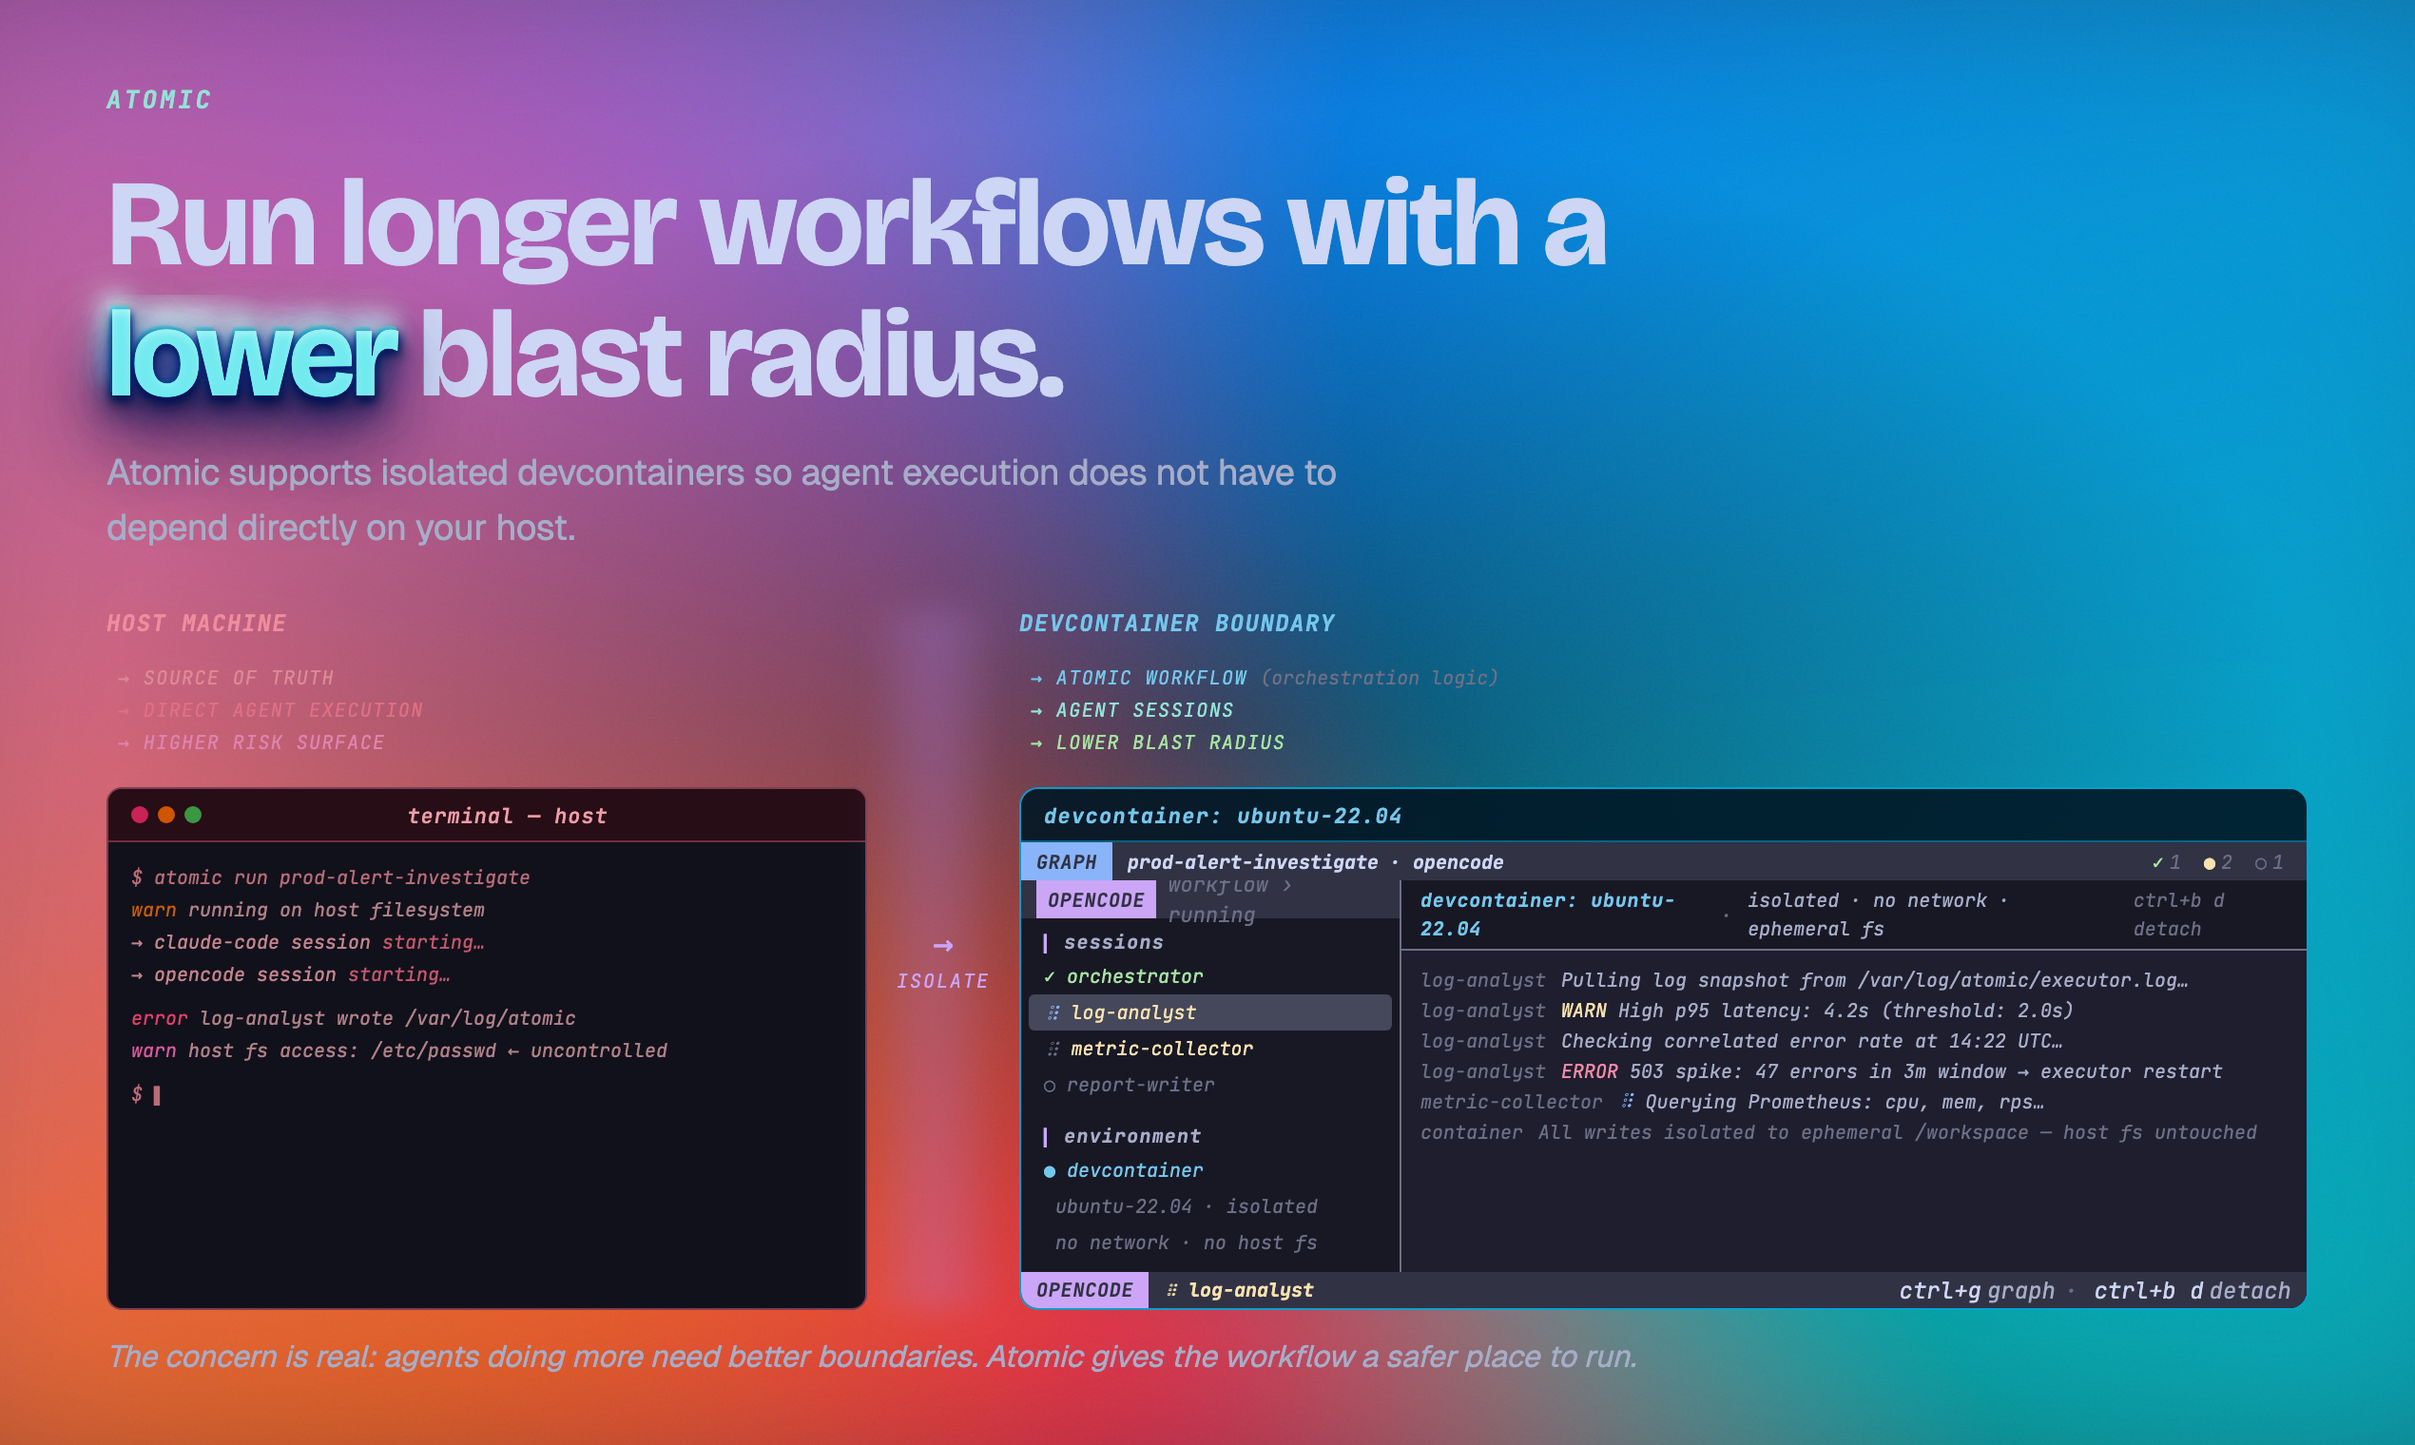
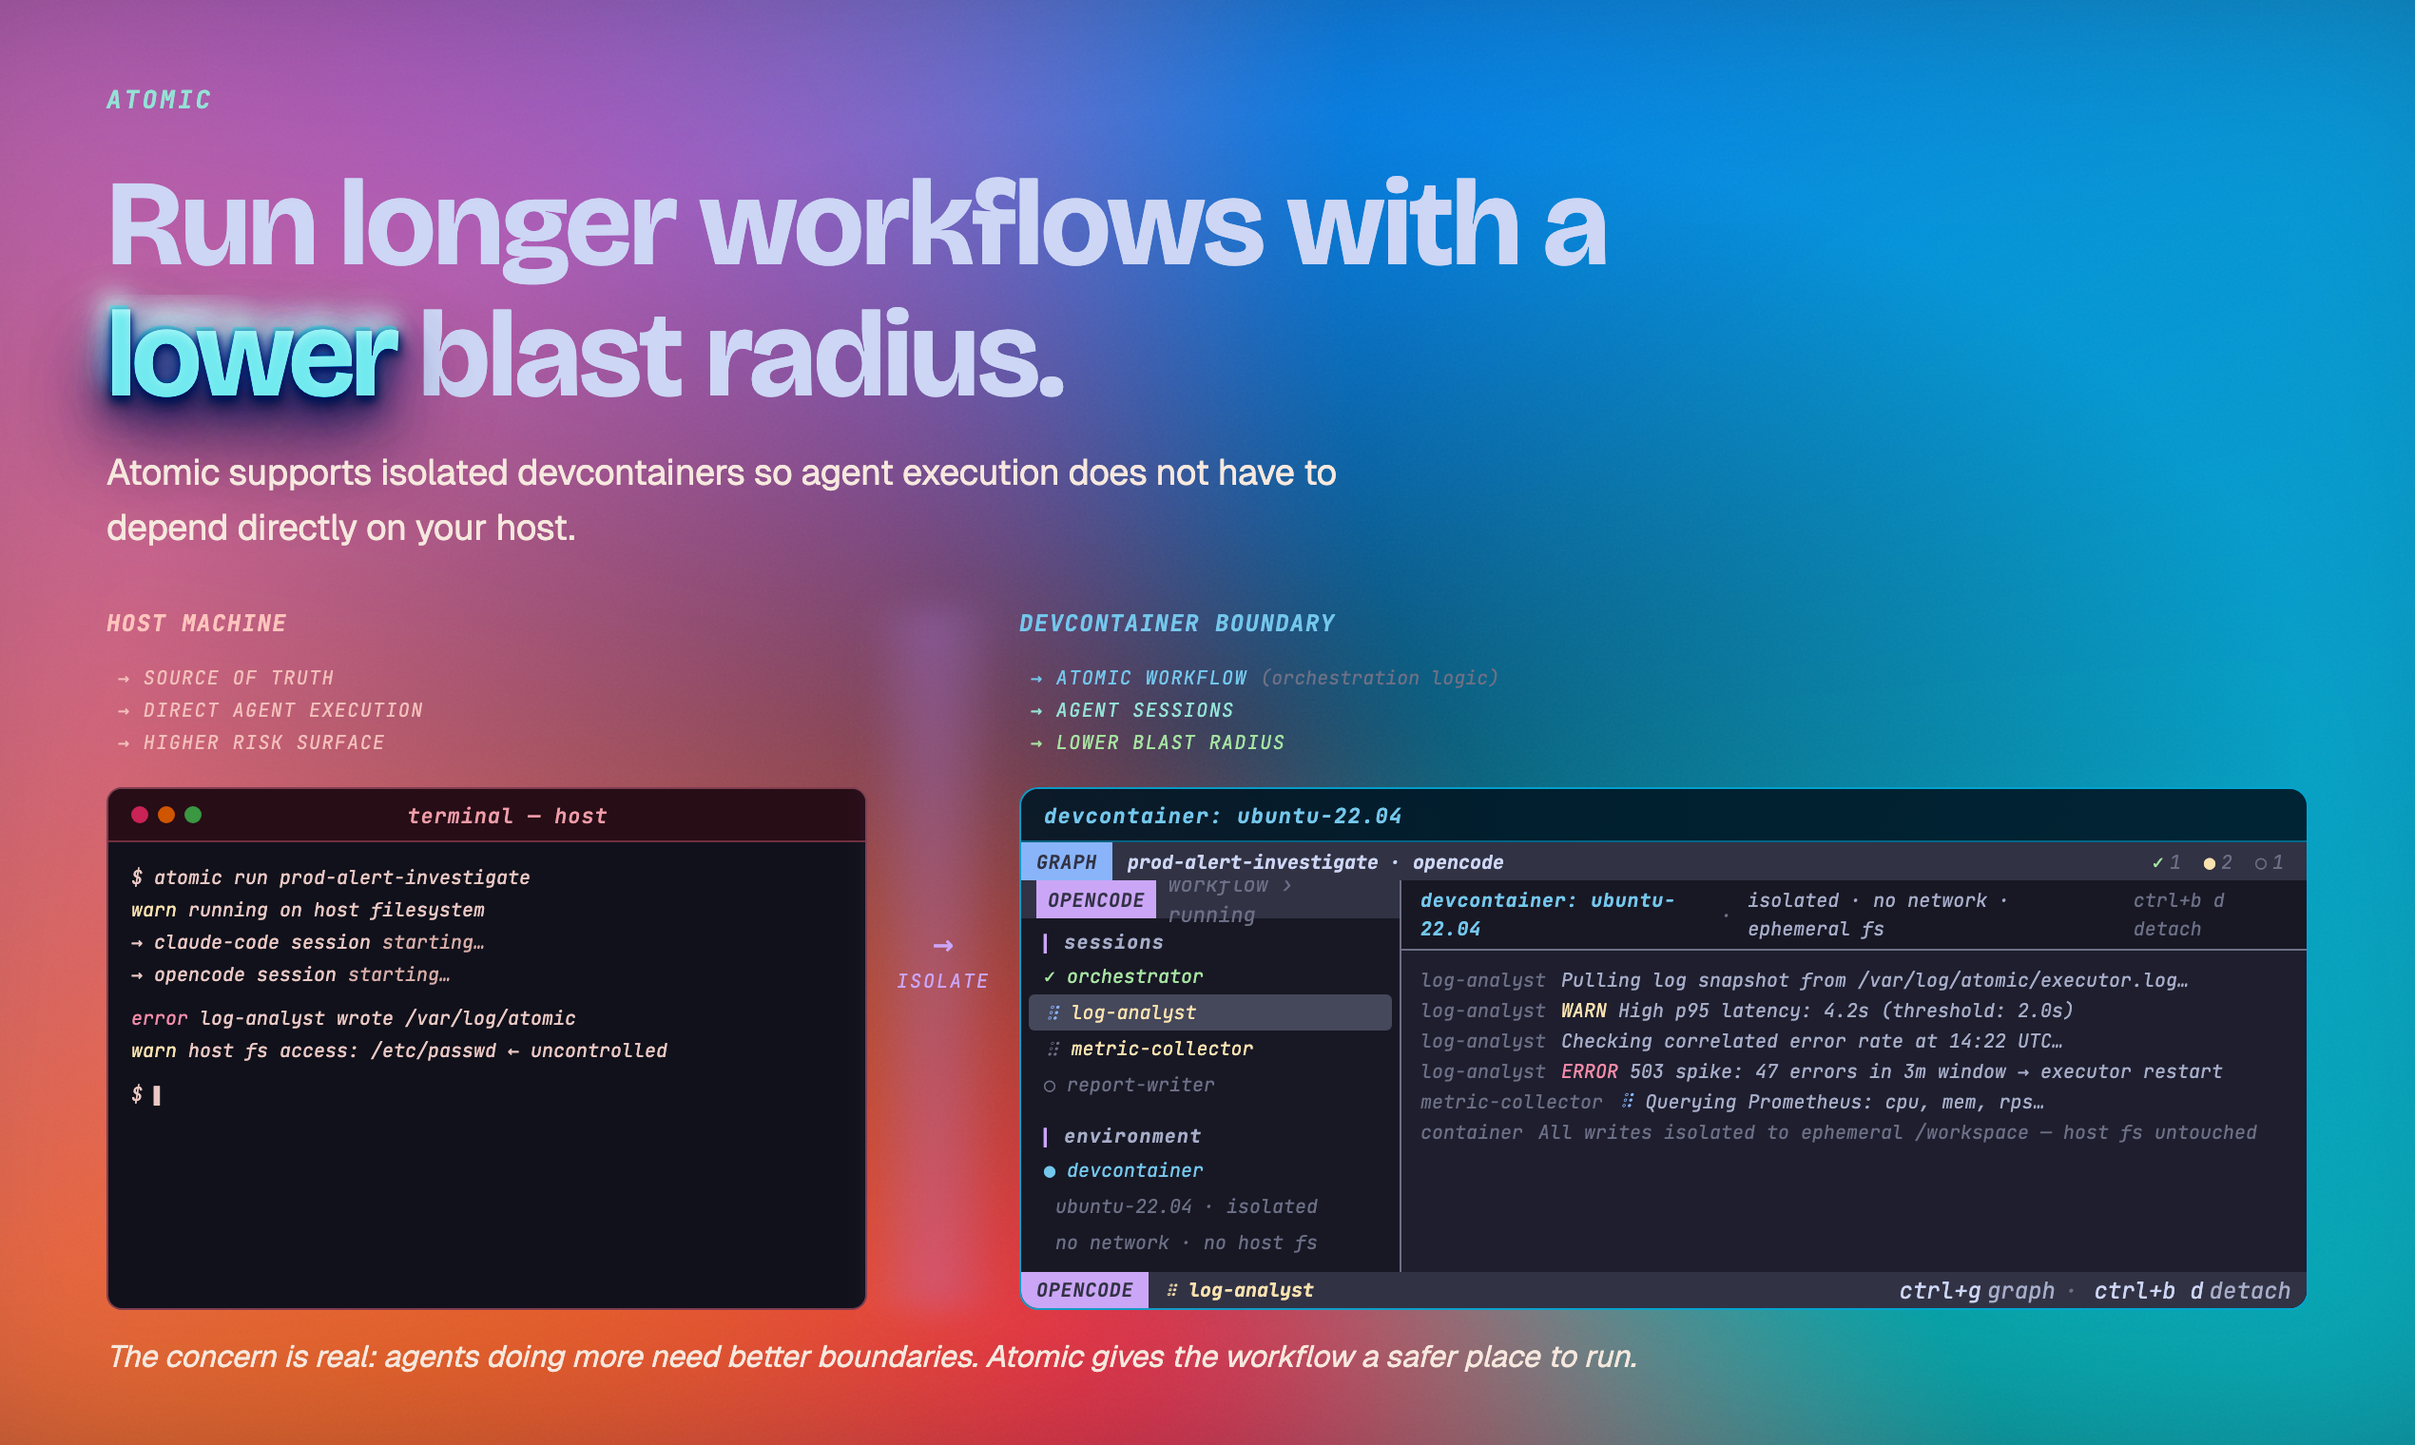
feat(product-hunt): add gradient-safe text tokens and apply across slides
Introduces --text-on-gradient and --text-on-gradient-dim cream-tinted
neutrals tuned for AAA contrast on every conic sweep stop, then swaps
mocha-subtext0/overlay/per-stop oklch colors for the shared token across
slides 01-03 and 05-07. Devcontainer host-pane log lines drop bespoke
warm oklch values in favor of the token plus mocha accent colors for the
warn/error glyphs.

Assistant-model: Claude Code

diff --git a/assets/product-hunt/slides/06-safety-devcontainer.html b/assets/product-hunt/slides/06-safety-devcontainer.html
@@ -277,7 +277,7 @@
       </h1>
 
       <!-- Subhead -->
-      <p class="subhead" style="font-size: 19px; max-width: 680px; margin-bottom: 28px; position: relative; z-index: 2;">
+      <p class="subhead" style="font-size: 19px; max-width: 680px; margin-bottom: 28px; position: relative; z-index: 2; color: var(--text-on-gradient);">
         Atomic supports isolated devcontainers so agent execution does not have to depend directly on your host.
       </p>
 
@@ -310,15 +310,15 @@
               font-weight: 700;
               letter-spacing: 0.06em;
               text-transform: uppercase;
-              color: oklch(75% 0.12 10);
+              color: oklch(88% 0.08 25);
             ">Host machine</span>
           </div>
 
           <!-- Sub-labels -->
           <div style="display: flex; flex-direction: column; gap: 1px; margin-bottom: 6px;">
-            <div class="panel-sublabel" style="color: oklch(72% 0.10 10);">→ source of truth</div>
-            <div class="panel-sublabel" style="color: oklch(68% 0.14 10);">→ direct agent execution</div>
-            <div class="panel-sublabel" style="color: oklch(72% 0.12 350);">→ higher risk surface</div>
+            <div class="panel-sublabel" style="color: oklch(85% 0.06 25);">→ source of truth</div>
+            <div class="panel-sublabel" style="color: oklch(85% 0.06 25);">→ direct agent execution</div>
+            <div class="panel-sublabel" style="color: oklch(85% 0.06 25);">→ higher risk surface</div>
           </div>
 
           <!-- TUI pane mock: Host machine — warm-tinted, simulating direct execution -->
@@ -333,22 +333,22 @@
             </div>
             <div class="host-pane__body">
               <!-- Warm-tinted output lines simulating direct host execution -->
-              <div style="color: oklch(62% 0.10 10); font-size: 10px;">$ atomic run prod-alert-investigate</div>
-              <div style="color: oklch(70% 0.08 10); font-size: 10px; padding-left: 0;">
-                <span style="color: oklch(60% 0.16 50);">warn</span>
-                <span style="color: oklch(65% 0.06 10);"> running on host filesystem</span>
+              <div style="color: oklch(86% 0.04 25); font-size: 10px;">$ atomic run prod-alert-investigate</div>
+              <div style="color: oklch(86% 0.04 25); font-size: 10px; padding-left: 0;">
+                <span style="color: var(--mocha-yellow);">warn</span>
+                <span> running on host filesystem</span>
               </div>
-              <div style="color: oklch(68% 0.08 10); font-size: 10px;">→ claude-code session  <span style="color: oklch(60% 0.14 10);">starting…</span></div>
-              <div style="color: oklch(68% 0.08 10); font-size: 10px;">→ opencode session     <span style="color: oklch(60% 0.14 10);">starting…</span></div>
-              <div style="color: oklch(58% 0.18 10); font-size: 10px; margin-top: 6px;">
-                <span style="color: oklch(62% 0.20 10);">error</span>
-                <span style="color: oklch(65% 0.06 10);"> log-analyst wrote /var/log/atomic</span>
+              <div style="color: oklch(86% 0.04 25); font-size: 10px;">→ claude-code session  <span style="color: oklch(78% 0.05 25);">starting…</span></div>
+              <div style="color: oklch(86% 0.04 25); font-size: 10px;">→ opencode session     <span style="color: oklch(78% 0.05 25);">starting…</span></div>
+              <div style="color: oklch(86% 0.04 25); font-size: 10px; margin-top: 6px;">
+                <span style="color: var(--mocha-red);">error</span>
+                <span> log-analyst wrote /var/log/atomic</span>
               </div>
-              <div style="color: oklch(60% 0.15 350); font-size: 10px;">
-                <span style="color: oklch(65% 0.18 350);">warn</span>
-                <span style="color: oklch(65% 0.06 10);"> host fs access: /etc/passwd  ← uncontrolled</span>
+              <div style="color: oklch(86% 0.04 25); font-size: 10px;">
+                <span style="color: var(--mocha-yellow);">warn</span>
+                <span> host fs access: /etc/passwd  ← uncontrolled</span>
               </div>
-              <div style="color: oklch(62% 0.10 10); font-size: 10px; margin-top: 6px;">$ ▌</div>
+              <div style="color: oklch(86% 0.04 25); font-size: 10px; margin-top: 6px;">$ ▌</div>
             </div>
           </div>
         </div>
@@ -545,7 +545,7 @@
         font-family: var(--font-body);
         font-size: 16px;
         font-style: italic;
-        color: var(--mocha-subtext0);
+        color: var(--text-on-gradient);
         margin-top: 14px;
         position: relative;
         z-index: 2;

diff --git a/assets/product-hunt/slides/05-architecture.html b/assets/product-hunt/slides/05-architecture.html
@@ -138,7 +138,7 @@
       font-family: var(--font-mono);
       font-size: 13px;
       letter-spacing: 0.05em;
-      color: var(--mocha-subtext0);
+      color: var(--text-on-gradient);
     }
 
     .arch-ribbon__tag  { white-space: nowrap; }
@@ -182,7 +182,7 @@
       <p style="
         font-family: var(--font-body);
         font-size: 19px;
-        color: var(--mocha-subtext0);
+        color: var(--text-on-gradient);
         line-height: 1.45;
         margin-bottom: 32px;
         max-width: 720px;
@@ -235,8 +235,8 @@
                   <span class="arch-titlebar__line" style="background: var(--cool-sapphire);"></span>
                 </div>
                 <div class="arch-agent-body">
-                  <div style="color: var(--cool-sapphire); font-size: 11px; margin-bottom: 4px; opacity: 0.85;">native CLI + SDK</div>
-                  <div style="color: var(--mocha-subtext0); font-size: 11px; opacity: 0.85;">session</div>
+                  <div style="color: var(--cool-sapphire); font-size: 11px; margin-bottom: 4px;">native CLI + SDK</div>
+                  <div style="color: var(--mocha-subtext0); font-size: 11px;">session</div>
                 </div>
               </div>
 
@@ -247,8 +247,8 @@
                   <span class="arch-titlebar__line" style="background: var(--warm-peach);"></span>
                 </div>
                 <div class="arch-agent-body">
-                  <div style="color: var(--warm-peach); font-size: 11px; margin-bottom: 4px; opacity: 0.85;">native CLI + SDK</div>
-                  <div style="color: var(--mocha-subtext0); font-size: 11px; opacity: 0.85;">session</div>
+                  <div style="color: var(--warm-peach); font-size: 11px; margin-bottom: 4px;">native CLI + SDK</div>
+                  <div style="color: var(--mocha-subtext0); font-size: 11px;">session</div>
                 </div>
               </div>
 
@@ -259,8 +259,8 @@
                   <span class="arch-titlebar__line" style="background: var(--cool-teal);"></span>
                 </div>
                 <div class="arch-agent-body">
-                  <div style="color: var(--cool-teal); font-size: 11px; margin-bottom: 4px; opacity: 0.85;">native CLI + SDK</div>
-                  <div style="color: var(--mocha-subtext0); font-size: 11px; opacity: 0.85;">session</div>
+                  <div style="color: var(--cool-teal); font-size: 11px; margin-bottom: 4px;">native CLI + SDK</div>
+                  <div style="color: var(--mocha-subtext0); font-size: 11px;">session</div>
                 </div>
               </div>
 

diff --git a/assets/product-hunt/slides/07-workflow-skill-creator.html b/assets/product-hunt/slides/07-workflow-skill-creator.html
@@ -438,7 +438,7 @@
       </h1>
 
       <!-- Subhead -->
-      <p class="subhead" style="font-size: 17px; max-width: 760px; margin-bottom: 18px; position: relative; z-index: 2;">
+      <p class="subhead" style="font-size: 17px; max-width: 760px; margin-bottom: 18px; position: relative; z-index: 2; color: var(--text-on-gradient);">
         Describe what you want. The <code style="font-family:var(--font-mono);color:var(--mocha-mauve);">workflow-creator</code> skill scaffolds a TypeScript file you can read, edit, and run.
       </p>
 
@@ -458,9 +458,9 @@
              PANEL 1 — PROMPT / agent chat
              ============================================================ -->
         <div style="flex: 0 0 296px; display: flex; flex-direction: column; gap: 6px; min-width: 0;">
-          <div class="col-header" style="color: oklch(78% 0.13 50);">Describe</div>
+          <div class="col-header" style="color: oklch(88% 0.08 25);">Describe</div>
           <div style="display: flex; flex-direction: column; gap: 1px; margin-bottom: 4px;">
-            <div class="col-sublabel" style="color: oklch(74% 0.10 50);">→ plain-english intent</div>
+            <div class="col-sublabel" style="color: oklch(85% 0.06 25);">→ plain-english intent</div>
             <div class="col-sublabel" style="color: var(--mocha-mauve);">→ workflow-creator skill</div>
           </div>
 
@@ -701,7 +701,7 @@
         font-family: var(--font-body);
         font-size: 15px;
         font-style: italic;
-        color: var(--mocha-subtext0);
+        color: var(--text-on-gradient);
         margin-top: 14px;
         position: relative;
         z-index: 2;

diff --git a/assets/product-hunt/slides/03-before-after.html b/assets/product-hunt/slides/03-before-after.html
@@ -43,13 +43,12 @@
       gap: 8px;
       font-family: var(--font-body);
       font-size: 14px;
-      color: var(--mocha-subtext0);
+      color: var(--text-on-gradient);
       line-height: 1.4;
     }
 
     .before-list li .glyph {
-      color: var(--warm-peach);
-      opacity: 0.75;
+      color: var(--text-on-gradient-dim);
       font-size: 13px;
       flex-shrink: 0;
       width: 12px;
@@ -92,7 +91,7 @@
       display: flex;
       gap: 8px;
       padding-left: 14px;
-      color: var(--mocha-overlay1);
+      color: var(--mocha-subtext0);
     }
 
     .prompt-log__reply-glyph { color: var(--mocha-green); }
@@ -299,7 +298,7 @@
       <p class="headline" style="font-size: 46px; font-weight: 700; margin-bottom: 6px;">
         The pain is operational control.
       </p>
-      <p class="subhead" style="font-size: 19px; color: var(--mocha-subtext0); max-width: 900px;">
+      <p class="subhead" style="font-size: 19px; color: var(--text-on-gradient); max-width: 900px;">
         Agents write code. Atomic makes longer agent runs reviewable, repeatable, and safer.
       </p>
     </div>

diff --git a/assets/product-hunt/slides/02-workflow-as-code.html b/assets/product-hunt/slides/02-workflow-as-code.html
@@ -121,7 +121,7 @@
       gap: 8px;
       font-family: var(--font-mono);
       font-size: 12.5px;
-      color: var(--mocha-subtext0);
+      color: var(--text-on-gradient);
       line-height: 1.35;
     }
 
@@ -201,7 +201,7 @@
           style="font-size: inherit; line-height: inherit;"
         >code</span></h1>
 
-        <p class="subhead" style="font-size: 20px; color: var(--mocha-subtext0); max-width: 580px;">
+        <p class="subhead" style="font-size: 20px; color: var(--text-on-gradient); max-width: 580px;">
           Developer-native orchestration that lives in the repo.
         </p>
       </div>
@@ -431,7 +431,7 @@
       font-family: var(--font-body);
       font-style: italic;
       font-size: 15px;
-      color: var(--mocha-subtext0);
+      color: var(--text-on-gradient);
       line-height: 1.55;
       text-align: right;
       z-index: 3;

diff --git a/assets/product-hunt/_shared/tokens.css b/assets/product-hunt/_shared/tokens.css
@@ -65,6 +65,14 @@
   --cream-subtext: #45475a;    /* surface1 for secondary on cream */
 
   /* -----------------------------------------------------------------------
+     Gradient-safe text — single shared variant for body copy that sits
+     directly on the conic sweep. Cream-tinted neutrals tuned to clear AAA
+     (≥7:1) on every conic stop (warm-red through cool-teal).
+  ----------------------------------------------------------------------- */
+  --text-on-gradient:     oklch(94% 0.02 60);
+  --text-on-gradient-dim: oklch(86% 0.02 60);
+
+  /* -----------------------------------------------------------------------
      Spacing scale (4px base unit)
   ----------------------------------------------------------------------- */
   --space-1:   4px;

diff --git a/assets/product-hunt/slides/01-hero.html b/assets/product-hunt/slides/01-hero.html
@@ -31,7 +31,7 @@
        Wordmark override — cream semi-transparent on warm field
     ----------------------------------------------------------------------- */
     .wordmark {
-      color: oklch(91% 0.04 60 / 0.70);
+      color: color-mix(in oklch, var(--text-on-gradient) 85%, transparent);
     }
 
     /* -----------------------------------------------------------------------
@@ -132,7 +132,7 @@
         font-weight: 400;
         line-height: 1.5;
         letter-spacing: -0.01em;
-        color: oklch(91% 0.04 60 / 0.72);
+        color: var(--text-on-gradient);
         max-width: 50ch;
         margin: 0;
       ">
